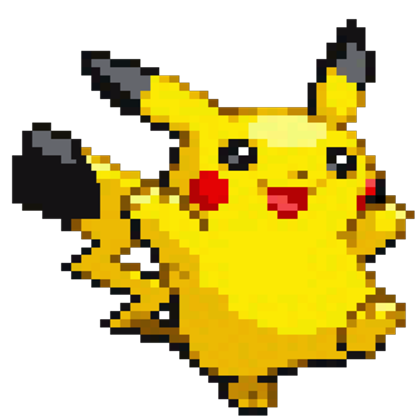
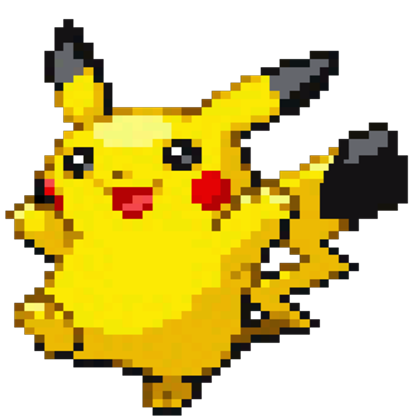
fixed a bug and added attack animations

diff --git a/assets/javascript/game.js b/assets/javascript/game.js
@@ -10,7 +10,7 @@ var bulbasaur = {
     hp: 45,
     attack1: "Tackle",
     attack2: "Vine Whip",
-    // attack3: "Leech Seed",
+    attack2Icon: $("#vinewhip"),
     speed: 45,
     attack: 7,
     special: 9
@@ -21,7 +21,7 @@ var charmander = {
     hp: 39,
     attack1: "Scratch",
     attack2: "Ember",
-    // attack3: "Growl",
+    attack2Icon: $("#ember"),
     speed: 65,
     attack: 8,
     special: 8
@@ -32,7 +32,7 @@ var squirtle = {
     hp: 44,
     attack1: "Tackle",
     attack2: "Bubble",
-    // attack3: "Tail Whip",
+    attack2Icon: $("#bubble"),
     speed: 43,
     attack: 7,
     special: 8
@@ -43,7 +43,7 @@ var pikachu = {
     hp: 35,
     attack1: "Quick Attack",
     attack2: "Thundershock",
-    // attack3: "Thunder Wave",
+    attack2Icon: $("#thundershock"),
     speed: 90,
     attack: 8,
     special: 8
@@ -54,6 +54,8 @@ var pokemon1
 var pokemon2
 var pokemon3
 var currentOpponent
+var position
+var positionOpponent
 
 // functions
 //--------------------------------------------------------------
@@ -79,6 +81,7 @@ function dispersePokemon() {
     $("#attacks").prepend("Attacks:&nbsp;&nbsp;&nbsp;&nbsp;&nbsp;&nbsp; a) " + usersPokemon.attack1 + "&nbsp;&nbsp;&nbsp;&nbsp;&nbsp;&nbsp;&nbsp;&nbsp;&nbsp;&nbsp;&nbsp;&nbsp; s) " + usersPokemon.attack2);
     // $("#attack3").prepend("c) " + usersPokemon.attack3);
     hasChosenPokemon = true;
+    usersPokemon.icon.addClass("flipped")
     usersPokemon.icon.animate({ top: "-=37.5%" }, "normal");
     usersPokemon.icon.animate({ left: "-=51.6%" }, "normal");
     pokemon1.icon.animate({ top: "-=25%" }, "normal");
@@ -88,29 +91,81 @@ function dispersePokemon() {
 }
 
 function battleCheck() {
-    if ((horizontalPosition === 6) && (verticalPosition === 1)) {
+    if ((horizontalPosition === 6) && (verticalPosition === 1) && (pokemon1.icon.css('opacity') > 0) ) {
         inBattle = true;
         currentOpponent = pokemon1
-        $("#gameText").prepend("Health is displayed above.");
-    } if ((horizontalPosition === 3) && (verticalPosition === 3)) {
+        battleReact();
+        battleSetup();
+        position="position1";
+        positionOpponent="positionOpponent1"
+    } if ((horizontalPosition === 3) && (verticalPosition === 3) && (pokemon3.icon.css('opacity') > 0)) {
         inBattle = true;
         currentOpponent = pokemon3
-        $("#gameText").prepend("Health is displayed above.");
-    } if ((horizontalPosition === 4) && (verticalPosition === 6)) {
+        battleReact();
+        battleSetup();
+        position="position3";
+        positionOpponent="positionOpponent3";
+    } if ((horizontalPosition === 4) && (verticalPosition === 6) && (pokemon2.icon.css('opacity') > 0)) {
         inBattle = true;
         currentOpponent = pokemon2
-        $("#gameText").prepend("Health is displayed above.");
+        battleReact();
+        battleSetup();
+        position="position2";
+        positionOpponent="positionOpponent2";
     }
 };
+
+function battleSetup (){
+    $("#gameText").prepend("Health is displayed above.");
+    usersPokemon.attack2Icon.removeClass(position)
+    currentOpponent.attack2Icon.removeClass(positionOpponent)
+    $("#pokemonHP").append("&nbsp;&nbsp;&nbsp;&nbsp;&nbsp;&nbsp;&nbsp;&nbsp;&nbsp;&nbsp;&nbsp;&nbsp;" + currentOpponent.name + "HP = " + currentOpponent.hp);
+}
+
+function battleReact(){
+    usersPokemon.icon.animate({left:"-=8.6%"}, "fast")
+}
+
+function attackAnimation (){
+    usersPokemon.icon.animate({left:"+=3.6%"}, "fast")
+    usersPokemon.icon.animate({left:"-=3.6%"}, "fast")
+}
+
+function specialAnimation (){
+    function remakeInvisible(){
+        usersPokemon.attack2Icon.addClass("invisible");
+    }
+    usersPokemon.attack2Icon.addClass(position)
+    usersPokemon.attack2Icon.removeClass("invisible")
+    setTimeout(remakeInvisible, 1000)
+}
+
+function opponentAttackAnimation (){
+    currentOpponent.icon.animate({left:"-=3.6%"}, "fast")
+    currentOpponent.icon.animate({left:"+=3.6%"}, "fast")
+}
+
+function opponentSpecialAnimation (){
+    function remakeInvisible(){
+        currentOpponent.attack2Icon.addClass("invisible");
+    }
+    currentOpponent.attack2Icon.addClass(positionOpponent)
+    currentOpponent.attack2Icon.removeClass("invisible")
+    setTimeout(remakeInvisible, 1000)
+}
+
 
 function opponentAttack() {
     var attackPick = Math.floor(Math.random() * 2)
     if (attackPick === 0) {
+        opponentAttackAnimation()
         usersPokemon.hp -= currentOpponent.attack;
         $("#gameText").prepend(currentOpponent.name + " used " + currentOpponent.attack1 + "<br>");
         $("#pokemonHP").prepend(usersPokemon.name + " HP: " + usersPokemon.hp);
     } if (attackPick === 1) {
-        if (((usersPokemon === bulbasaur) && (currentOpponent === charmander)) || ((usersPokemon === charmander) && (currentOpponent === squirtle)) || ((usersPokemon === squirtle) && (currentOpponent === bulbasaur || pikachu))) {
+        opponentSpecialAnimation();
+        if((currentOpponent===charmander)&&(usersPokemon===squirtle)){usersPokemon.hp -= currentOpponent.special;
+        } else if (((usersPokemon===squirtle)&&(currentOpponent===bulbasaur||pikachu))||((usersPokemon===bulbasaur)&&(currentOpponent===charmander))||((usersPokemon===charmander)&&(currentOpponent===squirtle))){
             usersPokemon.hp -= 2 * currentOpponent.special;
         } else {
             usersPokemon.hp -= currentOpponent.special;}
@@ -134,7 +189,7 @@ function checkForKO() {
             $(currentOpponent.icon).animate({ opacity: 0 });
             alert("Victory!  You have been fully healed.");
             alert("Congratulations!  You have grown a level.");
-
+            $("#gameText").html("");
             usersPokemon.attack++;
             usersPokemon.special++;
             if (usersPokemon === bulbasaur) {
@@ -151,6 +206,7 @@ function checkForKO() {
             }
             $("#pokemonHP").html(usersPokemon.name + " HP: " + usersPokemon.hp);
             inBattle = false;
+            usersPokemon.icon.animate({left:"+=8.6%"}, "normal")
         }
     }
 }
@@ -178,25 +234,31 @@ $(document).keyup(function (e) {
 });
 //attacking
 $(document).keyup(function (e) {
-    if (inBattle === true) {
-        $("#currentOpponentHP").html("&nbsp;&nbsp;&nbsp;&nbsp;&nbsp;&nbsp;&nbsp;&nbsp;&nbsp;&nbsp;&nbsp;&nbsp;" + currentOpponent.name + " HP: " + currentOpponent.hp);
+    if ((inBattle === true)&&($("#thundershock").hasClass("invisible"))&&
+    ($("#vinewhip").hasClass("invisible"))&&
+    ($("#bubble").hasClass("invisible"))&&
+    ($("#ember").hasClass("invisible")))
+    {
         if (e.key === "a") {
             currentOpponent.hp -= usersPokemon.attack;
             $("#gameText").html("");
             $("#gameText").prepend(usersPokemon.name + " used " + usersPokemon.attack1 + "<br>");
-            $("#pokemonHP").html("&nbsp;&nbsp;&nbsp;&nbsp;&nbsp;&nbsp;&nbsp;&nbsp;&nbsp;&nbsp;&nbsp;&nbsp;" + currentOpponent.name + "'s health = " + currentOpponent.hp);
+            attackAnimation();
+            $("#pokemonHP").html("&nbsp;&nbsp;&nbsp;&nbsp;&nbsp;&nbsp;&nbsp;&nbsp;&nbsp;&nbsp;&nbsp;&nbsp;" + currentOpponent.name + "HP = " + currentOpponent.hp);
             opponentAttack();
-            checkForKO();
+            setTimeout(checkForKO, 1000)
         } if (e.key === "s") {
-            if (((usersPokemon === bulbasaur || pikachu) && (currentOpponent === squirtle)) || ((usersPokemon === charmander) && (currentOpponent === bulbasaur)) || ((usersPokemon === squirtle) && (currentOpponent === charmander))) {
+            if((usersPokemon===charmander)&&(currentOpponent===squirtle)){currentOpponent.hp -= usersPokemon.special;
+            } else if (((usersPokemon === bulbasaur || pikachu) && (currentOpponent === squirtle)) || ((usersPokemon === charmander) && (currentOpponent === bulbasaur)) || ((usersPokemon === squirtle) && (currentOpponent === charmander))) {
                 currentOpponent.hp -= usersPokemon.special*2;
             } else {
                 currentOpponent.hp -= usersPokemon.special;}
                 $("#gameText").html("");
                 $("#gameText").prepend(usersPokemon.name + " used " + usersPokemon.attack2 + "<br>");
-                $("#pokemonHP").html("&nbsp;&nbsp;&nbsp;&nbsp;&nbsp;&nbsp;&nbsp;&nbsp;&nbsp;&nbsp;&nbsp;&nbsp;" + currentOpponent.name + "'s health = " + currentOpponent.hp);
+                specialAnimation();
+                $("#pokemonHP").html("&nbsp;&nbsp;&nbsp;&nbsp;&nbsp;&nbsp;&nbsp;&nbsp;&nbsp;&nbsp;&nbsp;&nbsp;" + currentOpponent.name + "HP = " + currentOpponent.hp);
                 opponentAttack();
-                checkForKO();
+                setTimeout(checkForKO, 1000)
             }
         }
     }
@@ -267,23 +329,3 @@ $("#pikachu").click(function () {
         dispersePokemon();
     }
 });
-
-
-
-//get in battle
-//perform battle
-    //attacks
-    //effects
-    //hp changes
-    //disappear
-//win
-//lose
-
-
-//tackle:7
-//scratch: 8
-//vinewhip:8
-//bubble: 7
-//ember: 7
-//quick attack: 8
-//thundershock: 8

diff --git a/index.html b/index.html
@@ -24,8 +24,8 @@
         <div id="textBox">
             <h1 class="pokemon">Pokemon RPG</h1>
             <p>Click on a Pokemon to select it as your character and start a game.</p>
-            <p>Use the arrow keys to move your Pokemon.  </p>
-            <p>Move to another Pokemon to Battle it.  </p>
+            <p>Use the arrow keys to move your Pokemon. </p>
+            <p>Move to another Pokemon to Battle it. </p>
             <p>When in battle, press "a" or "s" to use the corresponding attack.</p>
             <hr>
             <h3 id="pokemonHP"><span id="currentOpponentHP"></span></h3>
@@ -33,12 +33,15 @@
             <h1 class="pokemon">Game Text</h1>
             <p id="gameText"></p>
         </div>
-        
-        
+
+        <img src="assets/images/thundershock.png" alt="thundershock" class="attack invisible" id="thundershock">
+        <img src="assets/images/vinewhip.png" alt="vinewhip" class="attack invisible" id="vinewhip">
+        <img src="assets/images/ember.png" alt="ember" class="attack invisible" id="ember">
+        <img src="assets/images/bubble.png" alt="bubble" class="attack invisible" id="bubble">
     </div>
 
 
-    
+
     <script src="https://code.jquery.com/jquery-3.3.1.min.js" integrity="sha256-FgpCb/KJQlLNfOu91ta32o/NMZxltwRo8QtmkMRdAu8="
         crossorigin="anonymous"></script>
     <script src="assets/javascript/game.js"></script>

diff --git a/assets/css/style.css b/assets/css/style.css
@@ -47,14 +47,49 @@ position: relative;
     left:60.2%;
     top:50%;
     margin-left: .75%;
-    -moz-transform: scaleX(-1);
-        -o-transform: scaleX(-1);
-        -webkit-transform: scaleX(-1);
-        transform: scaleX(-1);
-        filter: FlipH;
-        -ms-filter: "FlipH";
 }
 
+.flipped {
+    -moz-transform: scaleX(-1);
+    -o-transform: scaleX(-1);
+    -webkit-transform: scaleX(-1);
+    transform: scaleX(-1);
+    filter: FlipH;
+    -ms-filter: "FlipH";
+}
+
+
+
+.position1 {
+    top: 12.5%;
+    left: 51%;
+}
+
+.position3 {
+    top: 37.5%;
+    left: 25.4%;
+}
+
+.position2 {
+    top: 75%;
+    left: 35%;
+}
+
+.positionOpponent1{
+    top: 12.5%;
+    left: 42.4%;
+}
+
+
+.positionOpponent3{
+    top: 37.5%;
+    left: 16.8%;
+}
+
+.positionOpponent2{
+    top: 75%;
+    left: 26.4%;
+}
 #squirtle {
     width:12%;
     height: 17%;
@@ -67,6 +102,17 @@ position: relative;
 .character, #textBoxImg, #textBox {
     position:absolute;
     
+}
+
+.attack {
+    position: absolute;
+    z-index: 5;
+    width: 7%;
+    height: 15%
+}
+
+.invisible {
+    opacity:0;
 }
 
 #textBox, #textBoxImg {
